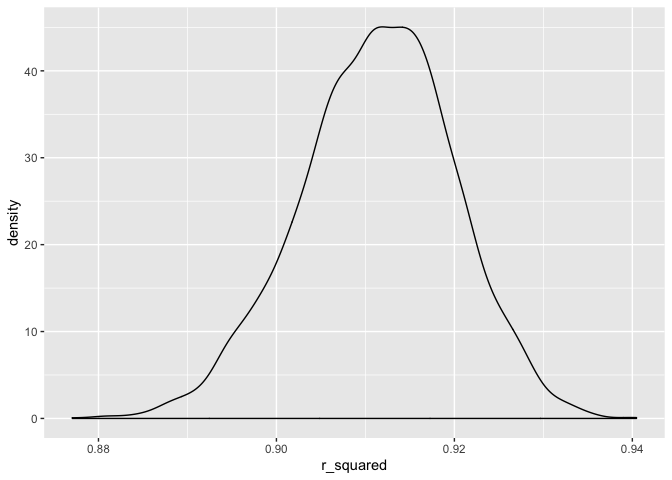
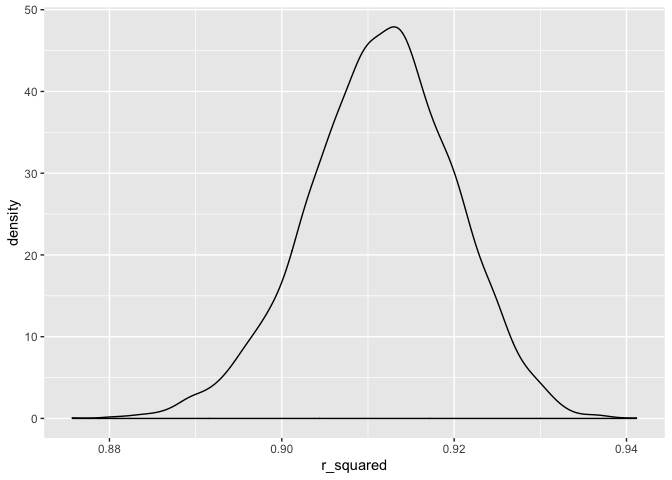
Completed HW-6!!

diff --git a/p8105_hw6_Ec3342.md b/p8105_hw6_Ec3342.md
@@ -138,7 +138,7 @@ cross_validation =
       train, ~ lm(bwt ~ blength + gaweeks, data = .x)
       ),
     model_3 = map(
-      train, ~ lm(bwt ~ bhead + babysex + blength + bhead * babysex * blength, data = .x)
+      train, ~ lm(bwt ~ bhead + babysex + blength + bhead*babysex + bhead*blength + babysex*blength + bhead * babysex * blength, data = .x)
       )
     ) %>% 
   mutate(
@@ -266,10 +266,14 @@ boot_sample(weather_df) %>%
   stat_smooth(method = "lm")
 ```
 
-![](p8105_hw6_Ec3342_files/figure-gfm/unnamed-chunk-12-1.png)<!-- --> \*
-Doing this for 5000 bootstrap samples
+![](p8105_hw6_Ec3342_files/figure-gfm/unnamed-chunk-12-1.png)<!-- -->
+
+  - Doing this for 5000 bootstrap samples
+
+<!-- end list -->
 
 ``` r
+set.seed(10)
 boot_straps = 
  data_frame(
     strap_number = 1:5000,
@@ -333,10 +337,10 @@ knitr::kable(col.names = "r_squared")
 
 |       | r\_squared |
 | ----- | ---------: |
-| 2.5%  |  0.8936977 |
-| 97.5% |  0.9274807 |
+| 2.5%  |  0.8938410 |
+| 97.5% |  0.9275271 |
 
-The 2.5% and 97.5% quantiles are 0.894 and 0.927 respectively.
+The 2.5% and 97.5% quantiles are 0.894 and 0.928 respectively.
 
   - Analyzing bootstrap samples to produce estimates of log(β̂0∗β̂1)
 
@@ -395,7 +399,7 @@ knitr::kable(col.names = "log(β̂0∗β̂1)")
 
 |       | log(β̂0∗β̂1) |
 | ----- | -----------: |
-| 2.5%  |     1.966942 |
-| 97.5% |     2.058528 |
+| 2.5%  |     1.964572 |
+| 97.5% |     2.059126 |
 
-The 2.5% and 97.5% quantiles are 1.966 and 2.058 respectively.
+The 2.5% and 97.5% quantiles are 1.964 and 2.059 respectively.
